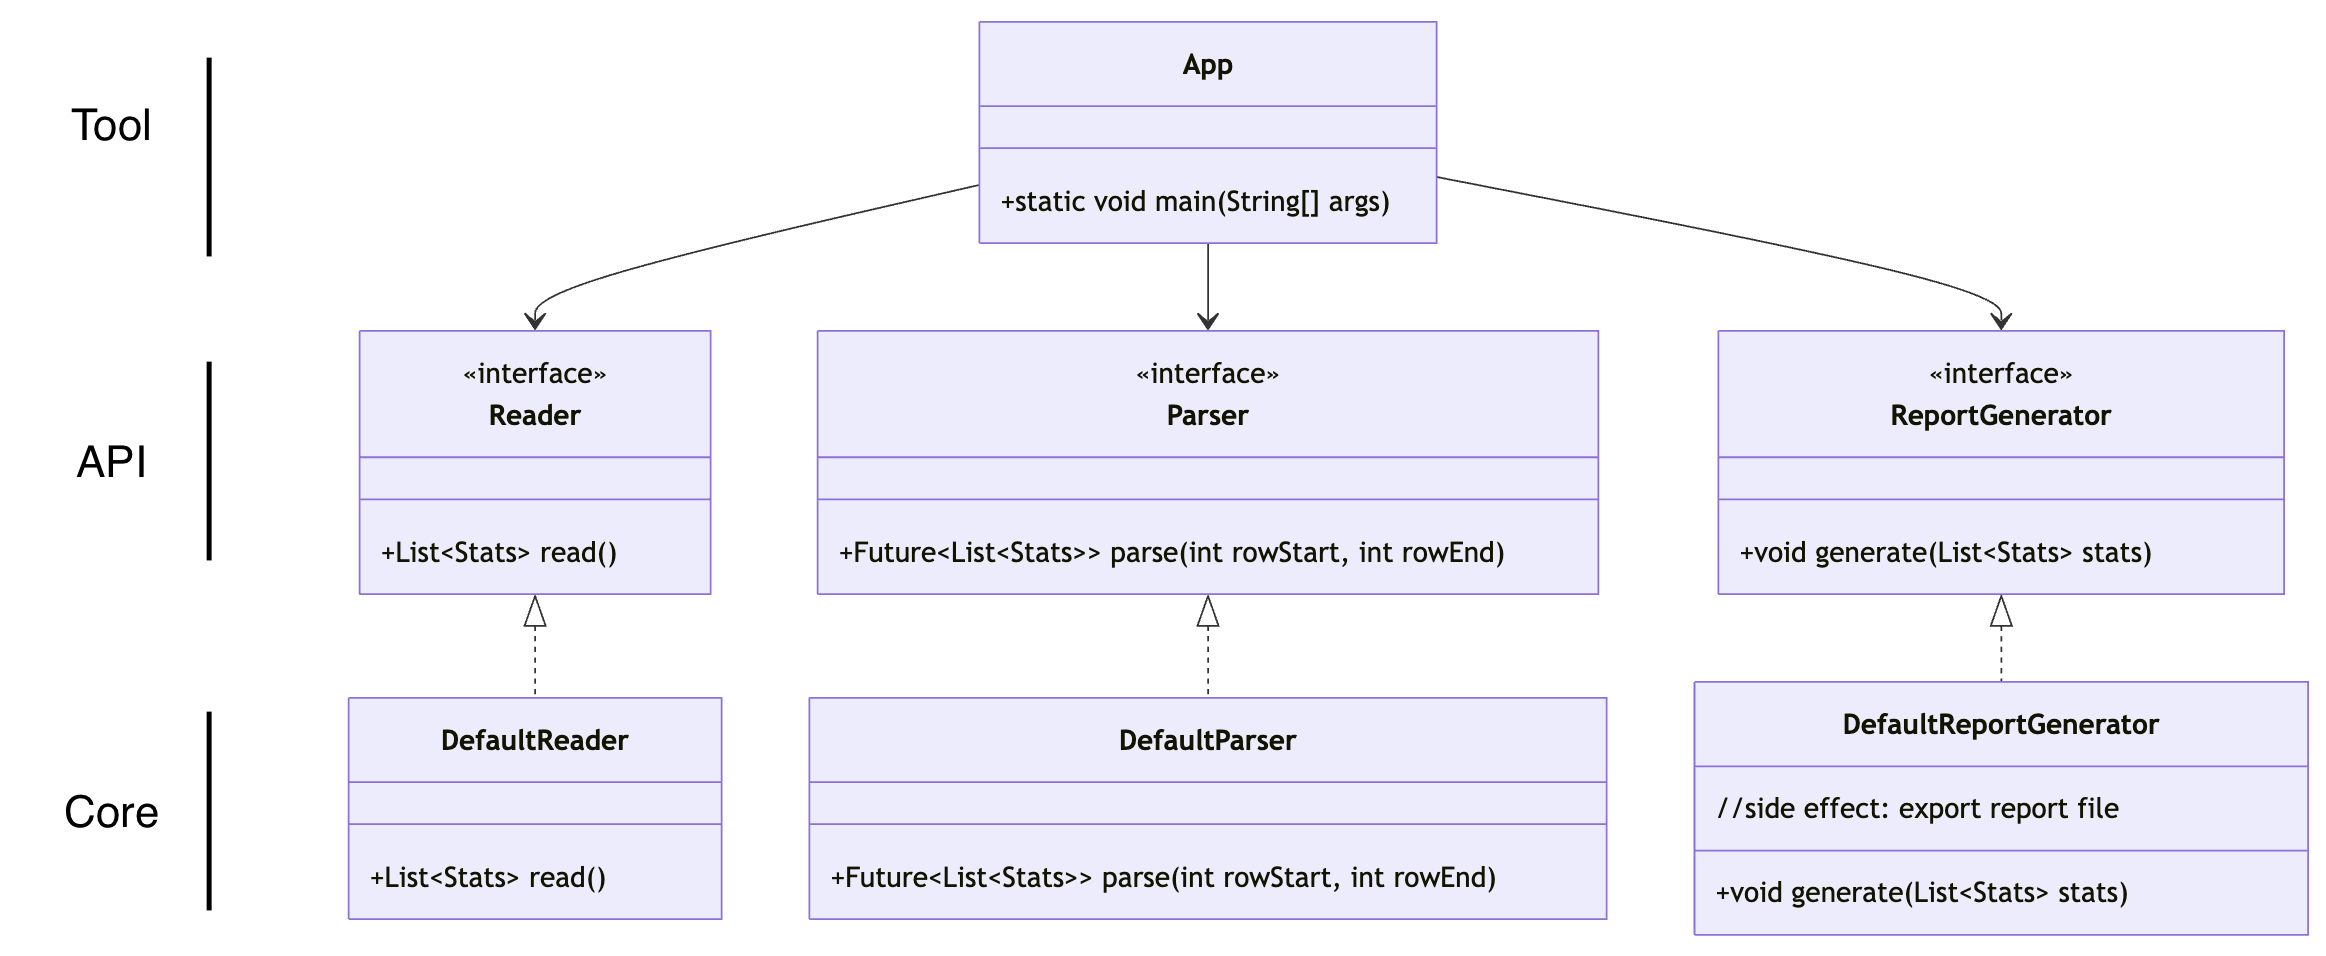
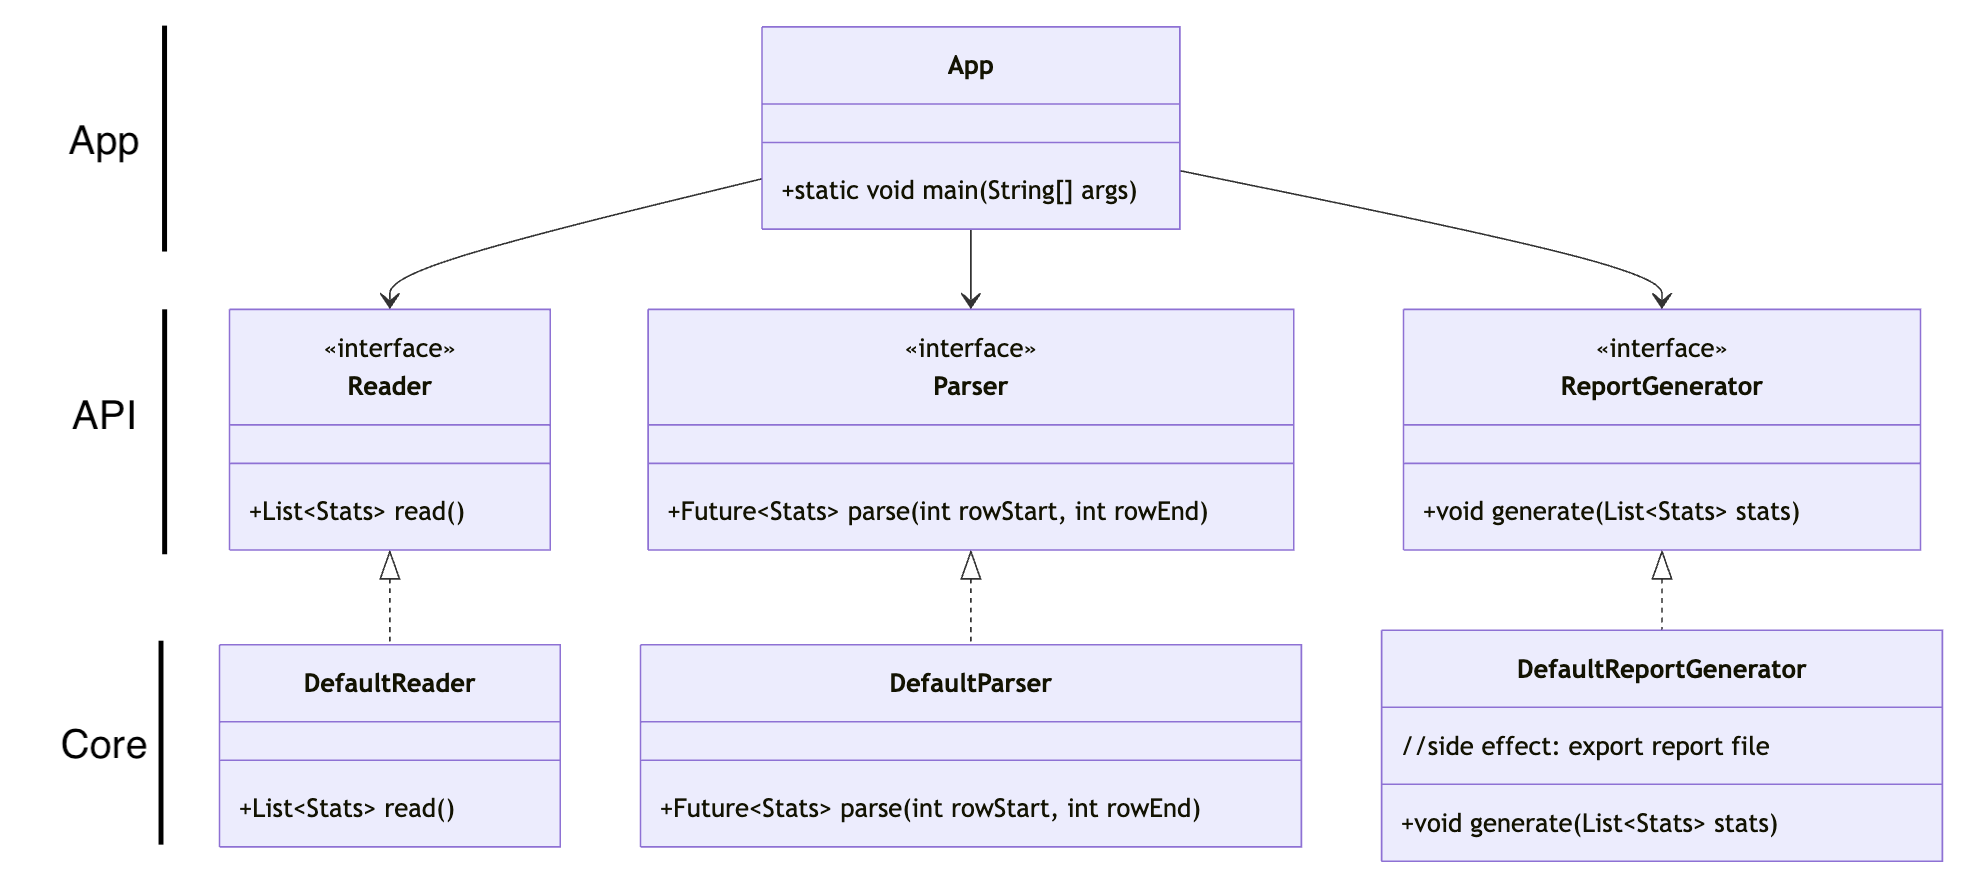
Simple pipeline no threading

diff --git a/src/main/java/onebrc/tool/App.java b/src/main/java/onebrc/tool/App.java
@@ -1,27 +1,17 @@
 package onebrc.tool;
 
-import onebrc.core.DefaultReader;
-import onebrc.core.DefaultParser;
-import onebrc.core.DefaultReportGenerator;
-import onebrc.api.Stats;
+import onebrc.api.*;
+import onebrc.core.*;
 
 import java.util.List;
-import java.util.concurrent.Future;
 
 public class App {
-    public static void main(String[] args) throws Exception {
-        DefaultReader reader = new DefaultReader();
-        DefaultReportGenerator generator = new DefaultReportGenerator();
+    public static void main(String[] args) {
+        String filename = args[0];
+        Reader reader = new DefaultReader(filename);
+        List<Stats> stats = reader.read();
 
-        // Suppose reader.read() returns a List<Stats> of size 1_000_000_000
-        List<Stats> allStats = reader.read();
-
-        int chunkSize = 100_000;
-        for (int offset = 0; offset < 1_000_000_000; offset += chunkSize) {
-            DefaultParser parser = new DefaultParser();
-            Future<List<Stats>> futureChunk = parser.parse(offset, offset + chunkSize);
-            List<Stats> chunk = futureChunk.get();
-            generator.generate(chunk);
-        }
+        ReportGenerator reportGenerator = new DefaultReportGenerator();
+        reportGenerator.generate(stats);
     }
 }

diff --git a/src/main/java/onebrc/core/DefaultReader.java b/src/main/java/onebrc/core/DefaultReader.java
@@ -2,14 +2,32 @@ package onebrc.core;
 
 import onebrc.api.Reader;
 import onebrc.api.Stats;
-
-import java.util.ArrayList;
-import java.util.List;
+import java.nio.file.*;
+import java.util.*;
+import java.io.*;
 
 public class DefaultReader implements Reader {
+    private final String filename;
+
+    public DefaultReader(String filename) {
+        this.filename = filename;
+    }
+
     @Override
     public List<Stats> read() {
-        // stub: return empty list or dummy Stats
-        return new ArrayList<>();
+        Map<String, Stats> statsMap = new HashMap<>();
+        try {
+            List<String> lines = Files.readAllLines(Paths.get(filename));
+            for (String line : lines) {
+                if (line.trim().isEmpty()) continue;
+                String[] parts = line.split(";");
+                String name = parts[0];
+                double value = Double.parseDouble(parts[1]);
+                statsMap.computeIfAbsent(name, n -> new Stats(n, value)).add(value);
+            }
+        } catch (IOException e) {
+            throw new RuntimeException("Failed to read file: " + filename, e);
+        }
+        return new ArrayList<>(statsMap.values());
     }
 }

diff --git a/src/main/java/onebrc/api/Stats.java b/src/main/java/onebrc/api/Stats.java
@@ -1,17 +1,24 @@
 package onebrc.api;
 
 public class Stats {
-    private final double min;
-    private final double max;
-    private final double avg;
+    public String name;
+    public double min, max, sum;
+    public int count;
 
-    public Stats(double min, double max, double avg) {
-        this.min = min;
-        this.max = max;
-        this.avg = avg;
+    public Stats(String name, double value) {
+        this.name = name;
+        this.min = this.max = this.sum = value;
+        this.count = 1;
     }
 
-    public double getMin() { return min; }
-    public double getMax() { return max; }
-    public double getAvg() { return avg; }
+    public void add(double value) {
+        min = Math.min(min, value);
+        max = Math.max(max, value);
+        sum += value;
+        count++;
+    }
+
+    public double avg() {
+        return sum / count;
+    }
 }

diff --git a/src/main/java/onebrc/core/DefaultReportGenerator.java b/src/main/java/onebrc/core/DefaultReportGenerator.java
@@ -2,13 +2,17 @@ package onebrc.core;
 
 import onebrc.api.ReportGenerator;
 import onebrc.api.Stats;
-
 import java.util.List;
 
 public class DefaultReportGenerator implements ReportGenerator {
     @Override
     public void generate(List<Stats> stats) {
-        // stub: print size
-        System.out.println("Report has " + stats.size() + " entries.");
+        // Basic print, probably should override this
+        int total_count = 0;
+        for (Stats s : stats) {
+            total_count = total_count + s.count;
+            System.out.printf("%s: min=%.2f max=%.2f avg=%.2f%n", s.name, s.min, s.max, s.avg());
+        }
+        System.out.printf("Total rows: %d%n", total_count);
     }
 }

diff --git a/src/main/java/onebrc/core/DefaultParser.java b/src/main/java/onebrc/core/DefaultParser.java
@@ -3,14 +3,11 @@ package onebrc.core;
 import onebrc.api.Parser;
 import onebrc.api.Stats;
 
-import java.util.List;
-import java.util.concurrent.CompletableFuture;
-import java.util.concurrent.Future;
+import java.util.concurrent.*;
 
 public class DefaultParser implements Parser {
     @Override
-    public Future<List<Stats>> parse(int rowStart, int rowEnd) {
-        // stub: return completed future with empty list
-        return CompletableFuture.completedFuture(List.of());
+    public Future<Stats> parse(int rowStart, int rowEnd) {
+        return CompletableFuture.completedFuture(null);
     }
 }

diff --git a/src/main/java/onebrc/MalformedMeasurementException.java b/src/main/java/onebrc/MalformedMeasurementException.java
@@ -1,8 +1,5 @@
 package onebrc;
 
-/**
- * Thrown when a measurements file contains a line that does not match the expected format.
- */
 public class MalformedMeasurementException extends Exception {
     public MalformedMeasurementException(String message) {
         super(message);

diff --git a/src/main/java/onebrc/api/Parser.java b/src/main/java/onebrc/api/Parser.java
@@ -1,8 +1,7 @@
 package onebrc.api;
 
 import java.util.concurrent.Future;
-import java.util.List;
 
 public interface Parser {
-    Future<List<Stats>> parse(int rowStart, int rowEnd);
+    Future<Stats> parse(int rowStart, int rowEnd);
 }

diff --git a/src/test/java/onebrc/tool/AppTest.java b/src/test/java/onebrc/tool/AppTest.java
@@ -1,4 +1,10 @@
 package onebrc.tool;
 
+import org.junit.jupiter.api.Test;
+
 public class AppTest {
+    @Test
+    public void testPipeline() {
+        App.main(new String[] {"src/test/resources/measurements.txt"});
+    }
 }

diff --git a/src/test/java/onebrc/core/DefaultReaderTest.java b/src/test/java/onebrc/core/DefaultReaderTest.java
@@ -1,0 +1,4 @@
+package onebrc.core;
+
+public class DefaultReaderTest {
+}
